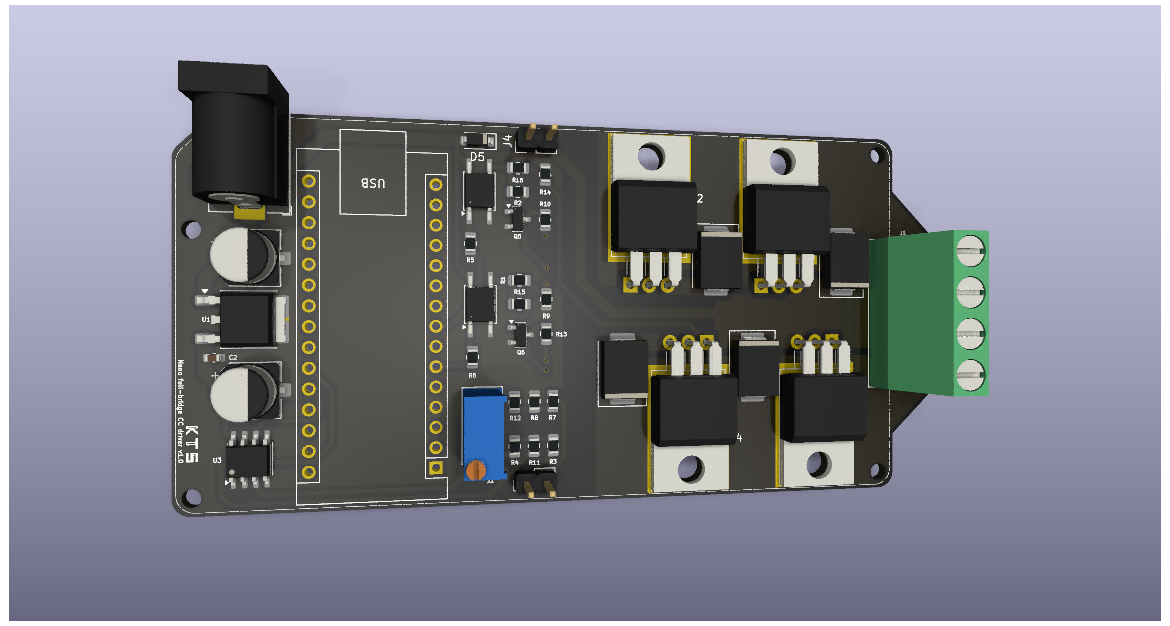
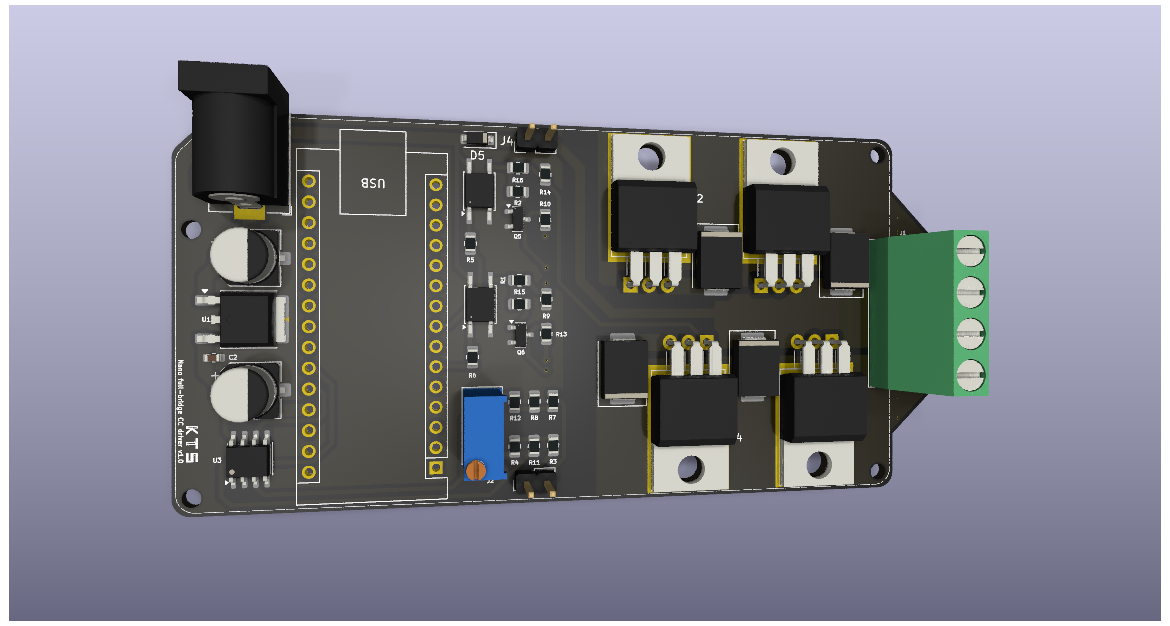
v1.0.0

Changed region(s): [[0.4, 0.2125, 0.4615, 0.2428]]

diff --git a/index.html b/index.html
@@ -32,17 +32,17 @@
     <h2>My Electronics projects</h2>
     <ul>
       <li>
-        <a>Relay module 220V/7A optocoupled</a>
-        <p>PCB design and manufacturing of a 5V/12V relay module with optocoupler.</p>
+        <a>Relay module 5V optocoupled</a>
+        <p>PCB design and manufacture of a 5/12V relay module with optocoupler for loads up to 7A/220V.</p>
         <img src="images/product_01.png" alt="Screenshot of Project">
 
-        <a>Relay module 5V/12V 4 channels optocoupled</a>
-        <p>PCB design of a 5V/12V 4-channel relay module (KiCad).</p>
-        <img src="images/relay_module_12v_optocoupler_4_t.png" alt="Screenshot of Project">
+        <a href="https://github.com/gkeiel/pcb_design_kicad/tree/main/relay_module_5v_optocoupler_smt" target="_blank">Relay module 5V optocoupled SMT</a>
+        <p>PCB design of a 3.3/5/12V relay module SMT with optocoupler (KiCad).</p>
+        <img src="images/relay_module_5v_optocoupler_smt.png" alt="Screenshot of Project">
 
-        <a href="https://github.com/gkeiel/pcb_design_kicad/tree/main/relay_module_12v_optocoupler_smt" target="_blank">Relay module 5V/12V optocoupled SMT</a>
-        <p>PCB design of a 5V/12V relay module SMT with optocoupler (KiCad).</p>
-        <img src="images/relay_module_12v_optocoupler_smt_t.png" alt="Screenshot of Project">
+        <a href="https://github.com/gkeiel/pcb_design_kicad/tree/main/relay_module_5v_optocoupler_4_smt" target="_blank">Relay module 5V 4 channels optocoupled SMT</a>
+        <p>PCB design of a 3.3/5/12V 4-channel relay module SMT with optocoupler (KiCad).</p>
+        <img src="images/relay_module_5v_optocoupler_4_smt.png" alt="Screenshot of Project">
 
         <a>Arduino Nano CC driver</a>
         <p>PCB design of a carrier board for Arduino Nano with full-bridge CC driver and voltage sensor (KiCad).</p>
